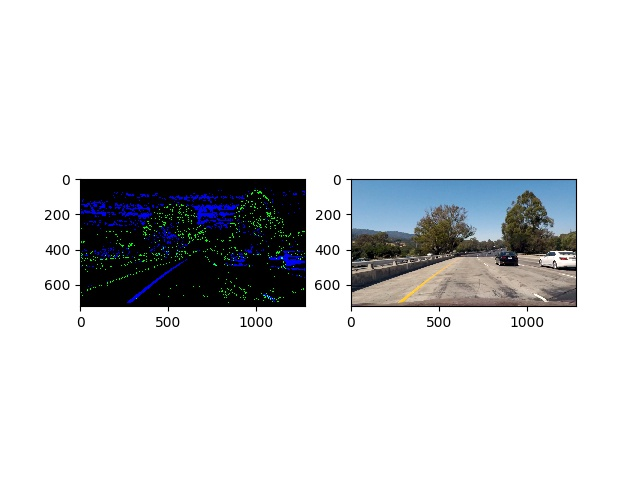
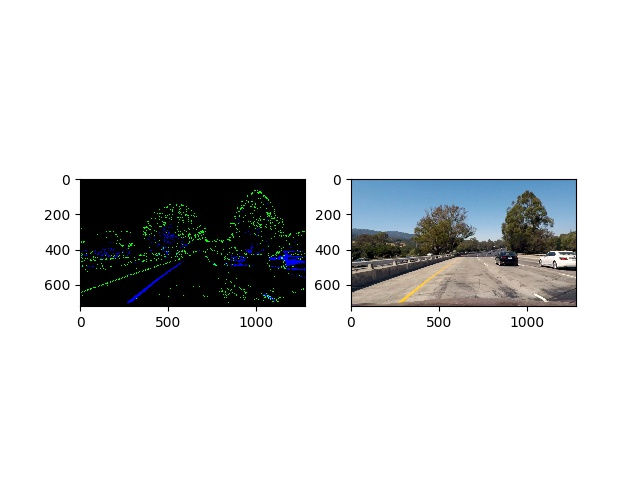
further tuned

diff --git a/lanelines.py b/lanelines.py
@@ -131,8 +131,8 @@ for fname in test_images:
     #write the gradient binary image
     #save_fname = os.path.join(outpath, 'gradient_'+os.path.basename(fname))
     #plt.figure()
-    plt.imshow(undist,cmap='gray')
-    plt.show()
+    #plt.imshow(undist,cmap='gray')
+    #plt.show()
     #plt.savefig(save_fname)
 
     #Apply color transform
@@ -144,30 +144,30 @@ for fname in test_images:
     color_binary = np.dstack((np.zeros_like(schannel_thres),combined_grad, schannel_thres))
 
     #write the gradient and color thresholding binary image
-    #save_fname = os.path.join(outpath, 'gradient_color_thres_img'+os.path.basename(fname))
-    #plt.figure()
-    #plt.subplot(121)
+    save_fname = os.path.join(outpath, 'gradient_color_thres_img'+os.path.basename(fname))
+    plt.figure()
+    plt.subplot(121)
     plt.imshow(color_binary)
-    #plt.subplot(122)
-    #plt.imshow(undist)
-    plt.show()
-    #plt.savefig(save_fname)
+    plt.subplot(122)
+    plt.imshow(undist)
+    #plt.show()
+    plt.savefig(save_fname)
 
     #Apply masking
     vertices = np.array([[(100,720),(600,450),(750,450),(1200,720)]],dtype=np.int32)
     combined_grad_color = region_of_interest(combined_grad_color1, vertices)
 
-    plt.imshow(combined_grad_color)
-    plt.show()
+    #plt.imshow(combined_grad_color)
+    #plt.show()
 
     #Apply perspective transform
     img_size = (combined_grad_color.shape[1],combined_grad_color.shape[0])
     pers_binary = cv2.warpPerspective(combined_grad_color, M, img_size)
     save_fname = os.path.join(outpath, 'pers_binary_'+os.path.basename(fname))
-    #plt.figure()
+    plt.figure()
     plt.imshow(pers_binary,cmap='gray')
-    plt.show()
-    #plt.savefig(save_fname)
+    #plt.show()
+    plt.savefig(save_fname)
 
     #Apply fit
     #print(pers_binary.shape)
@@ -194,12 +194,12 @@ for fname in test_images:
     cv2.putText(result,'radius of curavture: (L): %6.2f m (R): %6.2f m' %(left_curverad,right_curverad),(50,50), cv2.FONT_HERSHEY_SIMPLEX,1,(255,255,255),2)
     cv2.putText(result,'offset from center: %6.2f m ' %(offset_m),(50,100), cv2.FONT_HERSHEY_SIMPLEX,1,(255,255,255),2)
 
-    #plt.figure()
+    plt.figure()
     plt.imshow(result)
     #plt.text(600,150,'left curvature   = %6.2f m\nright curvature = %6.2f m \n' %(left_curverad,right_curverad), color='white')
-    plt.show()
+    #plt.show()
     save_fname = os.path.join('output_images', 'rewarp_lines_'+os.path.basename(fname))
-    #plt.savefig(save_fname)
+    plt.savefig(save_fname)
     #plt.close(fig2)
 
 def process_image(image):

diff --git a/finding_lines.py b/finding_lines.py
@@ -164,16 +164,16 @@ def find_lines(binary_warped,fname,tracker,frame_count):
         print(left_curverad, 'm', right_curverad, 'm')
         # Example values: 632.1 m    626.2 m
 
-        #plt.figure()
-        #plt.imshow(out_img)
-        #plt.plot(left_fitx, ploty, color='yellow')
-        #plt.plot(right_fitx, ploty, color='yellow')
-        #plt.xlim(0, 1280)
-        #plt.ylim(720, 0)
+        plt.figure()
+        plt.imshow(out_img)
+        plt.plot(left_fitx, ploty, color='yellow')
+        plt.plot(right_fitx, ploty, color='yellow')
+        plt.xlim(0, 1280)
+        plt.ylim(720, 0)
         ##plt.text(700,200,'left curvature  = %6.2f m \nright_curvature = %6.2f m \n' %(left_curverad,right_curverad), color='white')
         #plt.show()
-        #save_fname = os.path.join('output_images', 'fits_'+os.path.basename(fname))
-        #plt.savefig(save_fname)
+        save_fname = os.path.join('output_images', 'fits_'+os.path.basename(fname))
+        plt.savefig(save_fname)
         #plt.close(fig1)
 
         return [left_fitx, right_fitx, ploty, left_curverad, right_curverad,offset_m]
@@ -268,18 +268,18 @@ def find_lines(binary_warped,fname,tracker,frame_count):
         offset_pix = (car_pos_pix - center_lane)
         offset_m = offset_pix*xm_per_pix
 
-        #fig3 = plt.figure()
-        #plt.imshow(out_img)
+        fig1 = plt.figure()
+        plt.imshow(out_img)
         #plt.show()
-        #plt.plot(left_fitx, ploty, color='yellow')
-        #plt.plot(right_fitx, ploty, color='yellow')
-        #plt.xlim(0, 1280)
-        #plt.ylim(720, 0)
+        plt.plot(left_fitx, ploty, color='yellow')
+        plt.plot(right_fitx, ploty, color='yellow')
+        plt.xlim(0, 1280)
+        plt.ylim(720, 0)
         ##plt.text(700,200,'left curvature  = %6.2f m \nright_curvature = %6.2f m \n' %(left_curverad,right_curverad), color='white')
         #plt.show()
-        #save_fname = os.path.join('output_images', 'fits_'+os.path.basename(fname))
-        #plt.savefig(save_fname)
-        #plt.close(fig3)
+        save_fname = os.path.join('output_images', 'fits_'+os.path.basename(fname))
+        plt.savefig(save_fname)
+        plt.close(fig1)
 
         return [left_fitx, right_fitx, ploty, left_curverad, right_curverad,offset_m]
 
